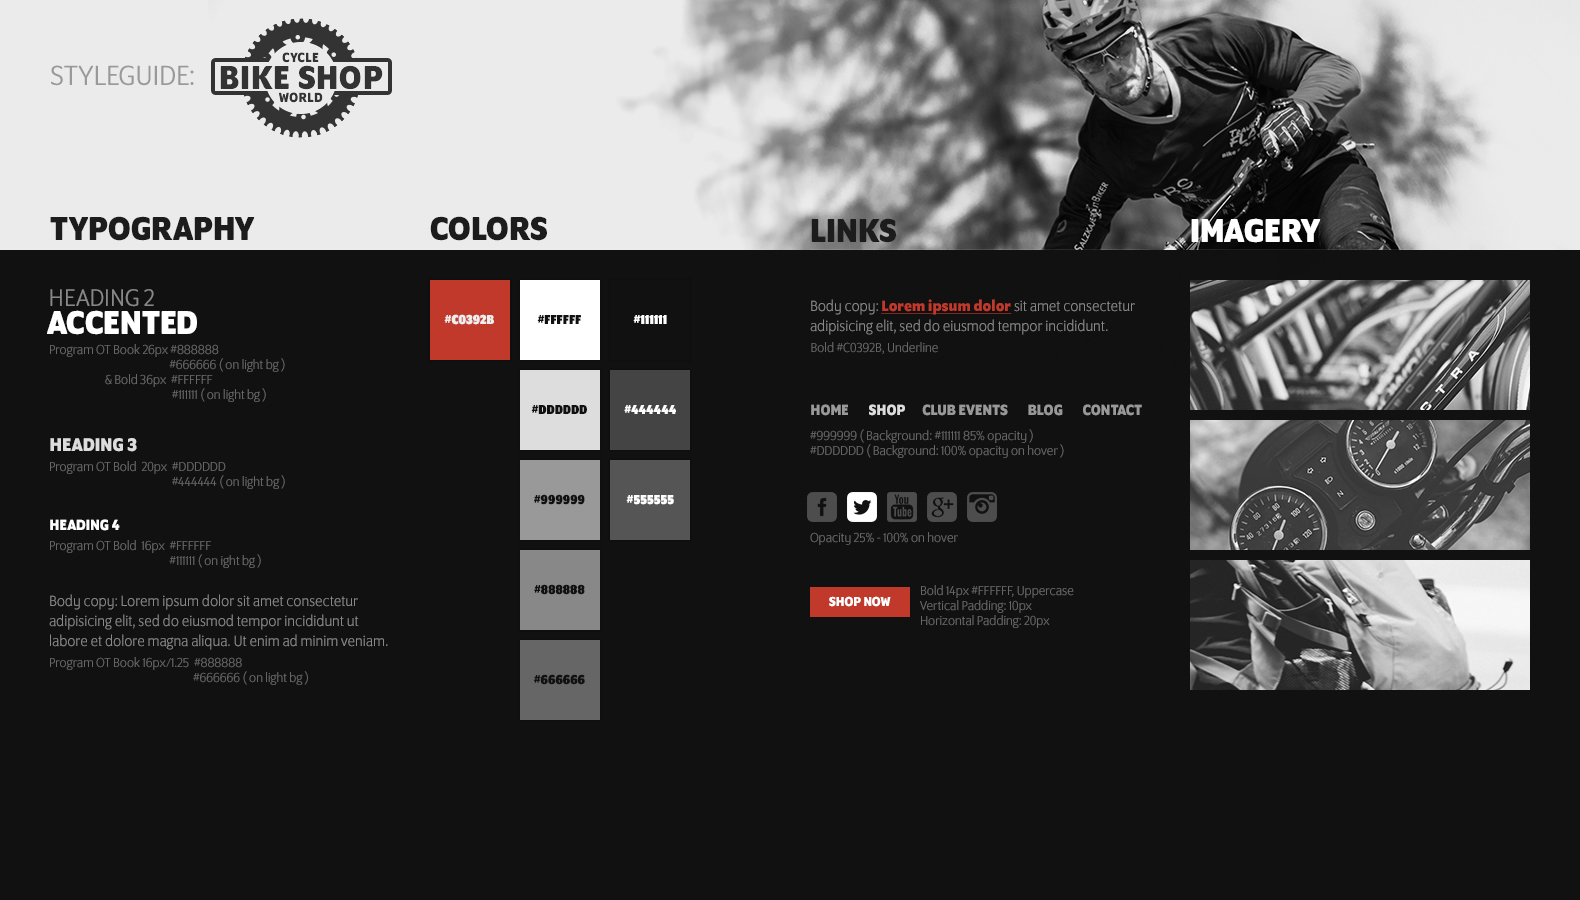
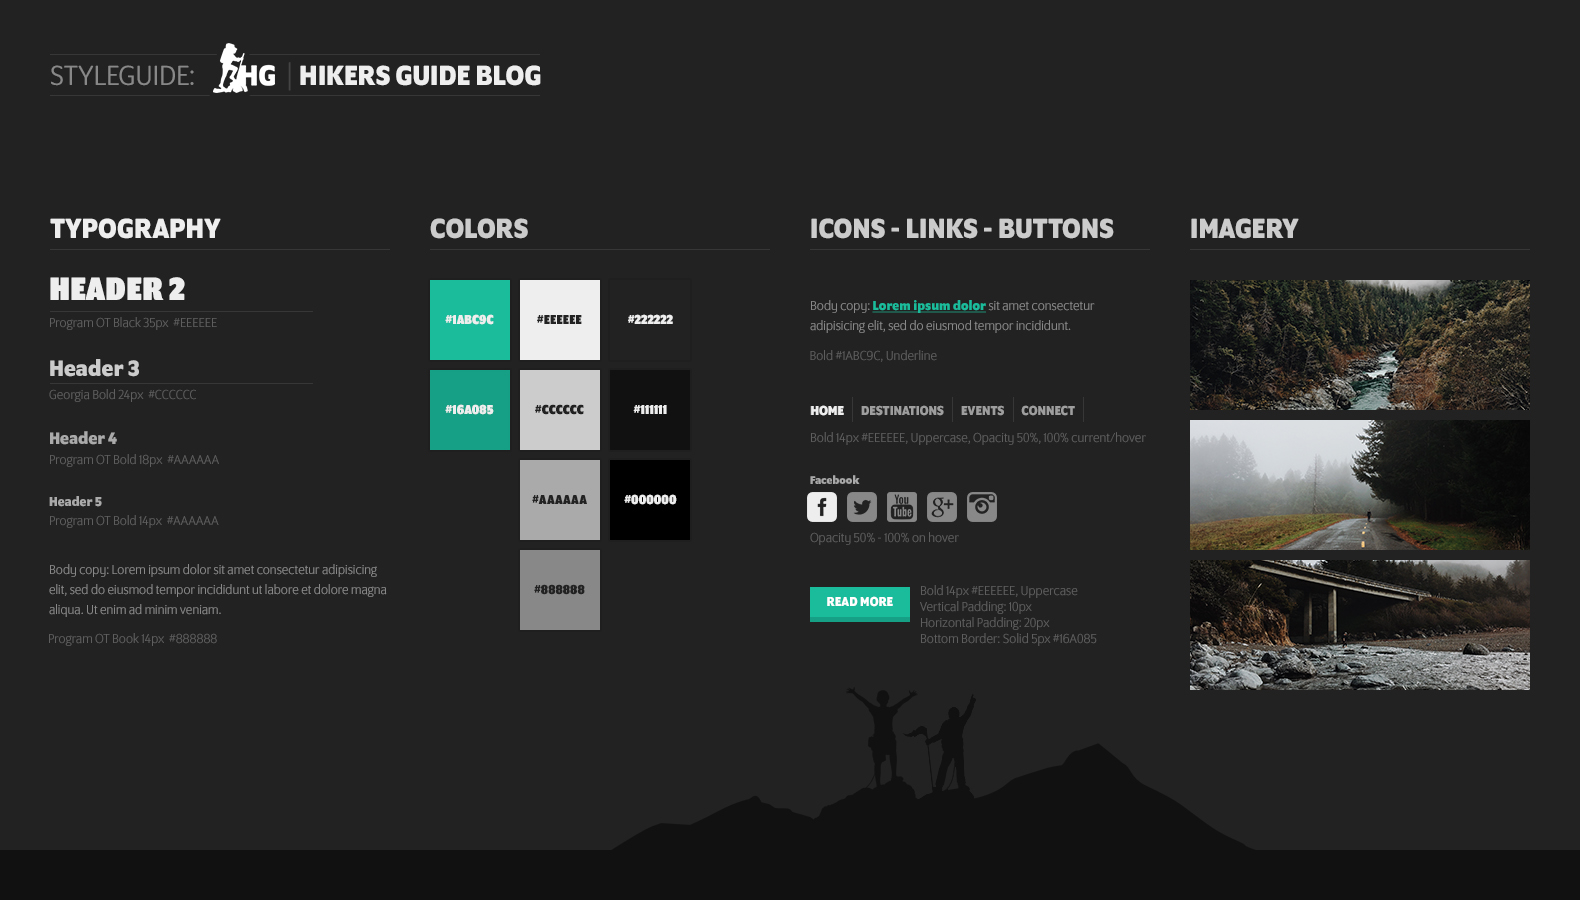
Another Test Attempt

diff --git a/index.html b/index.html
@@ -1,41 +1,1 @@
-<!doctype html>
-<html lang="en">
-	<head>
-		<meta charset="utf-8">
-		<title>WDS: HTML Project</title>
-		<meta name="description" content="Web Design Standards Demo: WDD | University">
-
-		<!-- CSS -->
-		<link rel="stylesheet" href="css/main.css">
-		<link rel="stylesheet" href="css/reset.css">
-	</head>
-	<body>
-		<section>
-            <header>Header</header>
-            <h1>Hello World</h1>
-            <article>
-                Lorem ipsum dolor sit amet, consectetur adipiscing elit, sed do eiusmod tempor incididunt ut labore et dolore magna aliqua. 
-                Imperdiet nulla malesuada pellentesque elit eget gravida cum. At tempor commodo ullamcorper a. Quam viverra orci sagittis eu volutpat odio. 
-                Purus sit amet volutpat consequat mauris nunc congue nisi vitae. Quis viverra nibh cras pulvinar mattis nunc sed blandit libero. 
-                Vel elit scelerisque mauris pellentesque pulvinar pellentesque habitant. Sollicitudin nibh sit amet commodo nulla facilisi nullam vehicula ipsum.
-                Pulvinar mattis nunc sed blandit libero. Id velit ut tortor pretium viverra suspendisse potenti. A diam maecenas sed enim ut sem viverra. 
-                Habitant morbi tristique senectus et netus. Odio tempor orci dapibus ultrices. Elementum curabitur vitae nunc sed. 
-                Egestas sed tempus urna et pharetra pharetra massa massa. Massa sed elementum tempus egestas.
-                Sed ullamcorper morbi tincidunt ornare massa eget egestas purus viverra. Libero nunc consequat interdum varius sit amet mattis vulputate.
-                Arcu bibendum at varius vel pharetra vel turpis nunc eget. Dictum at tempor commodo ullamcorper a lacus vestibulum. Odio euismod lacinia at quis risus sed vulputate. 
-                Non consectetur a erat nam at lectus. Purus in mollis nunc sed id semper. Maecenas ultricies mi eget mauris pharetra et ultrices. Mattis pellentesque id nibh tortor. 
-                Elit eget gravida cum sociis. Venenatis urna cursus eget nunc scelerisque viverra mauris in aliquam. Enim neque volutpat ac tincidunt vitae semper quis lectus nulla. 
-                Bibendum est ultricies integer quis auctor elit sed vulputate. 
-            </article>
-        </section>
-        <section>
-            <h2>Heading 2</h2>
-            <img src = "https://www.fillmurray.com/640/360">
-            <h3>Heading 3</h3>
-            <p>Lorem ipsum dolor sit amet, consectetur adipiscing elit, sed do eiusmod tempor incididunt ut labore et dolore magna aliqua. Ut enim ad minim veniam, quis nostrud exercitation ullamco laboris nisi ut aliquip ex ea commodo consequat. Duis aute irure dolor in reprehenderit in voluptate velit esse cillum dolore eu fugiat nulla pariatur. Excepteur sint occaecat cupidatat non proident, sunt in culpa qui officia deserunt mollit anim id est laborum.</p>
-            <h4>Heading 4</h4>
-            <p>Lorem ipsum dolor sit amet, consectetur adipiscing elit, sed do eiusmod tempor incididunt ut labore et dolore magna aliqua. Ut enim ad minim veniam, quis nostrud exercitation ullamco laboris nisi ut aliquip ex ea commodo consequat. Duis aute irure dolor in reprehenderit in voluptate velit esse cillum dolore eu fugiat nulla pariatur. Excepteur sint occaecat cupidatat non proident, sunt in culpa qui officia deserunt mollit anim id est laborum.</p>
-            <footer>Footer </footer>
-		</section>
-	</body>
-</html>
+Hello World

diff --git a/template.html b/template.html
@@ -1,1 +1,42 @@
 <!-- HTML Comment -->
+<!doctype html>
+<html lang="en">
+	<head>
+		<meta charset="utf-8">
+		<title>WDS: HTML Project</title>
+		<meta name="description" content="Web Design Standards Demo: WDD | University">
+
+		<!-- CSS -->
+		<link rel="stylesheet" href="css/main.css">
+		<link rel="stylesheet" href="css/reset.css">
+	</head>
+	<body>
+		<section>
+            <header>Header</header>
+            <h1>Hello World</h1>
+            <article>
+                Lorem ipsum dolor sit amet, consectetur adipiscing elit, sed do eiusmod tempor incididunt ut labore et dolore magna aliqua. 
+                Imperdiet nulla malesuada pellentesque elit eget gravida cum. At tempor commodo ullamcorper a. Quam viverra orci sagittis eu volutpat odio. 
+                Purus sit amet volutpat consequat mauris nunc congue nisi vitae. Quis viverra nibh cras pulvinar mattis nunc sed blandit libero. 
+                Vel elit scelerisque mauris pellentesque pulvinar pellentesque habitant. Sollicitudin nibh sit amet commodo nulla facilisi nullam vehicula ipsum.
+                Pulvinar mattis nunc sed blandit libero. Id velit ut tortor pretium viverra suspendisse potenti. A diam maecenas sed enim ut sem viverra. 
+                Habitant morbi tristique senectus et netus. Odio tempor orci dapibus ultrices. Elementum curabitur vitae nunc sed. 
+                Egestas sed tempus urna et pharetra pharetra massa massa. Massa sed elementum tempus egestas.
+                Sed ullamcorper morbi tincidunt ornare massa eget egestas purus viverra. Libero nunc consequat interdum varius sit amet mattis vulputate.
+                Arcu bibendum at varius vel pharetra vel turpis nunc eget. Dictum at tempor commodo ullamcorper a lacus vestibulum. Odio euismod lacinia at quis risus sed vulputate. 
+                Non consectetur a erat nam at lectus. Purus in mollis nunc sed id semper. Maecenas ultricies mi eget mauris pharetra et ultrices. Mattis pellentesque id nibh tortor. 
+                Elit eget gravida cum sociis. Venenatis urna cursus eget nunc scelerisque viverra mauris in aliquam. Enim neque volutpat ac tincidunt vitae semper quis lectus nulla. 
+                Bibendum est ultricies integer quis auctor elit sed vulputate. 
+            </article>
+        </section>
+        <section>
+            <h2>Heading 2</h2>
+            <aside><img src = ""></aside>
+            <h3>Heading 3</h3>
+            <p>Lorem ipsum dolor sit amet, consectetur adipiscing elit, sed do eiusmod tempor incididunt ut labore et dolore magna aliqua. Ut enim ad minim veniam, quis nostrud exercitation ullamco laboris nisi ut aliquip ex ea commodo consequat. Duis aute irure dolor in reprehenderit in voluptate velit esse cillum dolore eu fugiat nulla pariatur. Excepteur sint occaecat cupidatat non proident, sunt in culpa qui officia deserunt mollit anim id est laborum.</p>
+            <h4>Heading 4</h4>
+            <p>Lorem ipsum dolor sit amet, consectetur adipiscing elit, sed do eiusmod tempor incididunt ut labore et dolore magna aliqua. Ut enim ad minim veniam, quis nostrud exercitation ullamco laboris nisi ut aliquip ex ea commodo consequat. Duis aute irure dolor in reprehenderit in voluptate velit esse cillum dolore eu fugiat nulla pariatur. Excepteur sint occaecat cupidatat non proident, sunt in culpa qui officia deserunt mollit anim id est laborum.</p>
+            <footer>Footer </footer>
+		</section>
+	</body>
+</html>

diff --git a/js/content.js b/js/content.js
@@ -1,4 +1,4 @@
 /*
  * Use AJAX to load the JSON and manipulate the HTML
- * https://josbloom.github.io/dws1/data/bikeshop.json
+ * https://joshbloom.github.io/dws1/data/hikersguide.json
 */

diff --git a/css/main.css b/css/main.css
@@ -1,4 +1,4 @@
-/* Bike Shop CSS
+/* Hiker's Guide CSS
 ================================================== 
 ================================================== */
 
